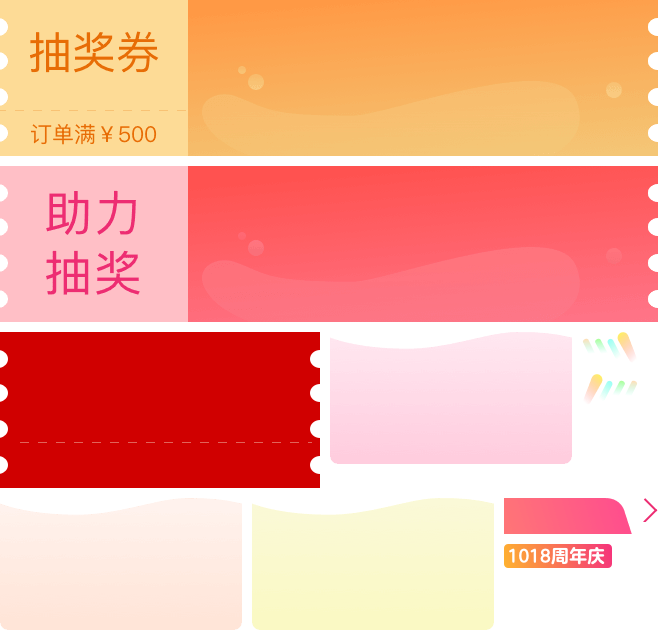
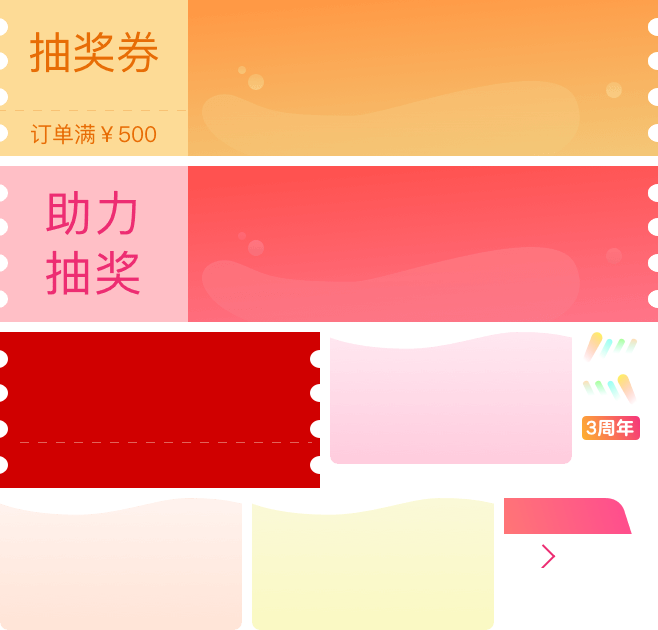
1018

Changed region(s): [[0.8815, 0.5127, 0.9726, 0.7238], [0.7599, 0.8444, 0.9422, 0.9048], [0.9726, 0.7841, 1.0, 0.8444]]

diff --git a/src/page/act_1018_mine/css/_icon.scss b/src/page/act_1018_mine/css/_icon.scss
@@ -4,7 +4,7 @@
   display: inline-block;
   width: (16rem / 100 / $ratio);
   height: (24rem / 100 / $ratio);
-  background: url(../img/icon.png) (-642rem / 100 / $ratio) (-498rem / 100 / $ratio) no-repeat;
+  background: url(../img/icon.png) (-540rem / 100 / $ratio) (-544rem / 100 / $ratio) no-repeat;
   background-size: (658rem / 100 / $ratio) (630rem / 100 / $ratio);
 }
 
@@ -14,7 +14,7 @@
   display: inline-block;
   width: (16rem / 100 / $ratio);
   height: (24rem / 100 / $ratio);
-  background: url(../img/icon.png) (-618rem / 100 / $ratio) (-416rem / 100 / $ratio) no-repeat;
+  background: url(../img/icon.png) (-642rem / 100 / $ratio) (-498rem / 100 / $ratio) no-repeat;
   background-size: (658rem / 100 / $ratio) (630rem / 100 / $ratio);
 }
 
@@ -74,7 +74,7 @@
   display: inline-block;
   width: (26rem / 100 / $ratio);
   height: (26rem / 100 / $ratio);
-  background: url(../img/icon.png) (-582rem / 100 / $ratio) (-416rem / 100 / $ratio) no-repeat;
+  background: url(../img/icon.png) (-504rem / 100 / $ratio) (-544rem / 100 / $ratio) no-repeat;
   background-size: (658rem / 100 / $ratio) (630rem / 100 / $ratio);
 }
 
@@ -92,9 +92,9 @@
 @mixin i-recommend-icon($ratio: 2) {
   content: '';
   display: inline-block;
-  width: (108rem / 100 / $ratio);
+  width: (58rem / 100 / $ratio);
   height: (24rem / 100 / $ratio);
-  background: url(../img/icon.png) (-504rem / 100 / $ratio) (-544rem / 100 / $ratio) no-repeat;
+  background: url(../img/icon.png) (-582rem / 100 / $ratio) (-416rem / 100 / $ratio) no-repeat;
   background-size: (658rem / 100 / $ratio) (630rem / 100 / $ratio);
 }
 
@@ -114,7 +114,7 @@
   display: inline-block;
   width: (56rem / 100 / $ratio);
   height: (32rem / 100 / $ratio);
-  background: url(../img/icon.png) (-582rem / 100 / $ratio) (-332rem / 100 / $ratio) no-repeat;
+  background: url(../img/icon.png) (-582rem / 100 / $ratio) (-374rem / 100 / $ratio) no-repeat;
   background-size: (658rem / 100 / $ratio) (630rem / 100 / $ratio);
 }
 
@@ -124,7 +124,7 @@
   display: inline-block;
   width: (56rem / 100 / $ratio);
   height: (32rem / 100 / $ratio);
-  background: url(../img/icon.png) (-582rem / 100 / $ratio) (-374rem / 100 / $ratio) no-repeat;
+  background: url(../img/icon.png) (-582rem / 100 / $ratio) (-332rem / 100 / $ratio) no-repeat;
   background-size: (658rem / 100 / $ratio) (630rem / 100 / $ratio);
 }
 

diff --git a/src/page/act_1018_mine/css/act_1018_mine.scss b/src/page/act_1018_mine/css/act_1018_mine.scss
@@ -105,7 +105,7 @@
   /*周年庆按钮*/
   .g-head-btn {
     position: absolute;
-    top: ptr(176);
+    top: ptr(172);
     left: ptr(50);
     //margin: ptr(20) auto 0 ptr(50);
     width: ptr(263);
@@ -466,7 +466,7 @@
         padding: 0 ptr(7);
         .swiper-slide {
           margin: 0 ptr(3);
-          width: ptr(172);
+          width: ptr(152);
           color: white;
           border-radius: ptr(4);
           overflow: hidden;
@@ -475,8 +475,8 @@
           }
           .goods-pic {
             position: relative;
-            width: ptr(172);
-            height: ptr(200);
+            width: ptr(152);
+            height: ptr(180);
             background: white;
             z-index: 1;
             vertical-align: middle;

diff --git a/src/page/act_1018_mine/act_1018_mine.html b/src/page/act_1018_mine/act_1018_mine.html
@@ -50,11 +50,11 @@
 
     <!--周年庆按钮-->
     <a href="/t-14439.html">
-      <img class="g-head-btn" src="[[static]]/page/act_1018_mine/img/head-btn.png">
+      <img class="g-head-btn" src="[[static]]/page/act_1018_mine/img/head-btn.png" :style="{top: ua.isDvdApp() ? '1.31rem' : null}">
     </a>
 
     <!--我的活动-->
-    <div class="g-act" v-if="response" style="display: none;" :style="{display: response ? null : 'none'}">
+    <div class="g-act" @click="removeLocalCache" v-if="response" style="display: none;" :style="{display: response ? null : 'none'}">
       <!--服务人群预定奖励-->
       <!--<div class="service-award" v-if="isAdviser">-->
       <div class="service-award" v-if="response.data.award">

diff --git a/developer.config.js b/developer.config.js
@@ -15,6 +15,6 @@
 export default {
   //env_stage: 'beta',
   //env_num: '2',
-  page: '{act_1018_mine,act_1018_main}',
+  page: '{act_1018_mine,act_1018_main111}',
   webpack: false,
 };
